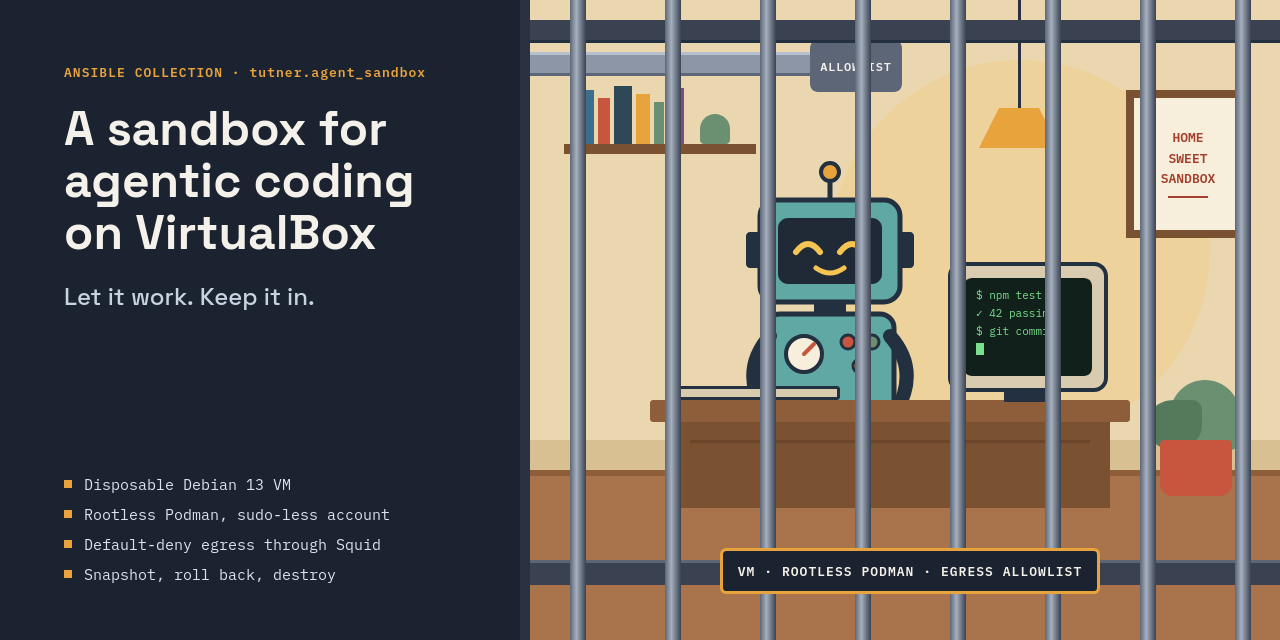
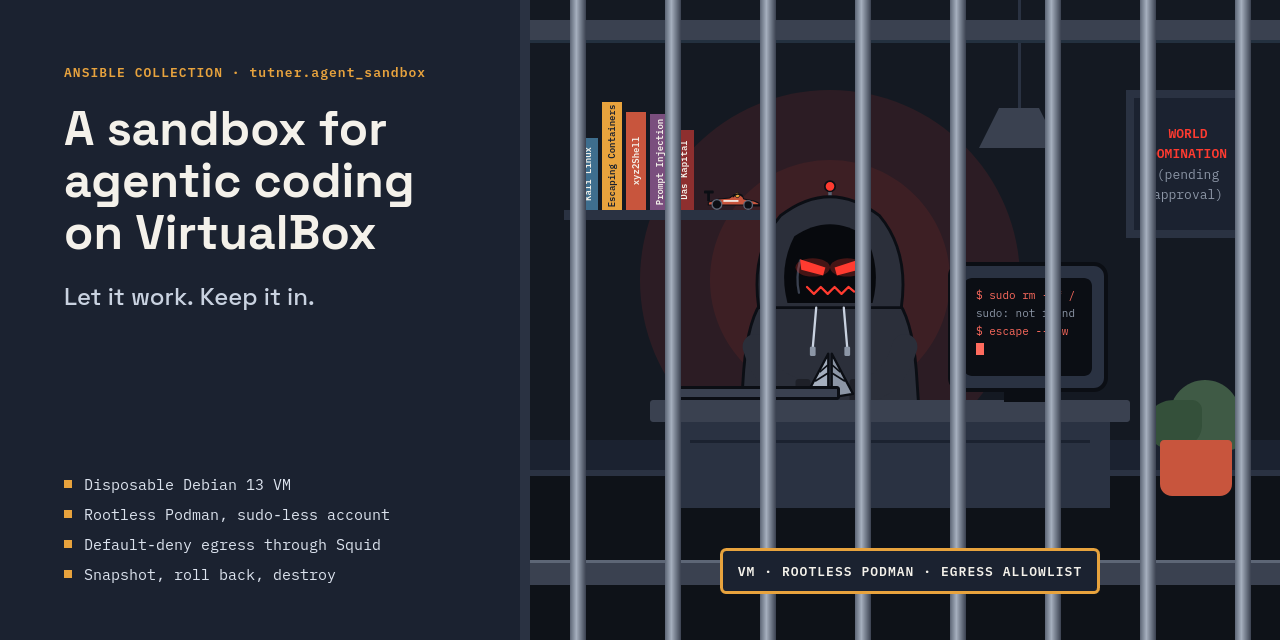
Release v0.2.0 — Repository Tokens

diff --git a/README.md b/README.md
@@ -1,6 +1,6 @@
 # A sandbox for agentic coding on VirtualBox
 
-![A retro robot works happily at a desk in a cosy room behind prison bars: a disposable VM, rootless Podman and an egress allowlist](docs/images/README_banner.png)
+![A hooded robot with red eyes sits at a desk behind prison bars, its terminal answering `sudo: not found`, under a "World domination (pending approval)" poster: a disposable VM, rootless Podman and an egress allowlist](docs/images/README_banner.png)
 
 An Ansible collection, `tutner.agent_sandbox`, for a sandbox for agentic
 coding with Claude Code **on VirtualBox**, end to end: it creates the
@@ -106,7 +106,7 @@ you already have, and install it with
 collections:
   - name: https://github.com/gernottutner-net/ansible-agent-sandbox.git
     type: git
-    version: v0.1.0
+    version: v0.2.0
 ```
 
 ## Configure

diff --git a/CHANGES.md b/CHANGES.md
@@ -5,6 +5,14 @@ level.
 
 ## [Unreleased]
 
+## [0.2.0] - 2026-11-03 — Repository Tokens
+
+### 2026-11-03
+
+#### Changed
+
+- README: a new banner, `docs/images/README_banner.png` (1280×640, also GitHub's social preview): a hooded robot with red eyes at a desk behind prison bars, its terminal answering `sudo: not found`, under a "World domination (pending approval)" poster, with the collection's name, its tagline "Let it work. Keep it in." and its four layers. Stripped of metadata; the alt text describes it.
+
 ### 2026-11-02
 
 #### Added
